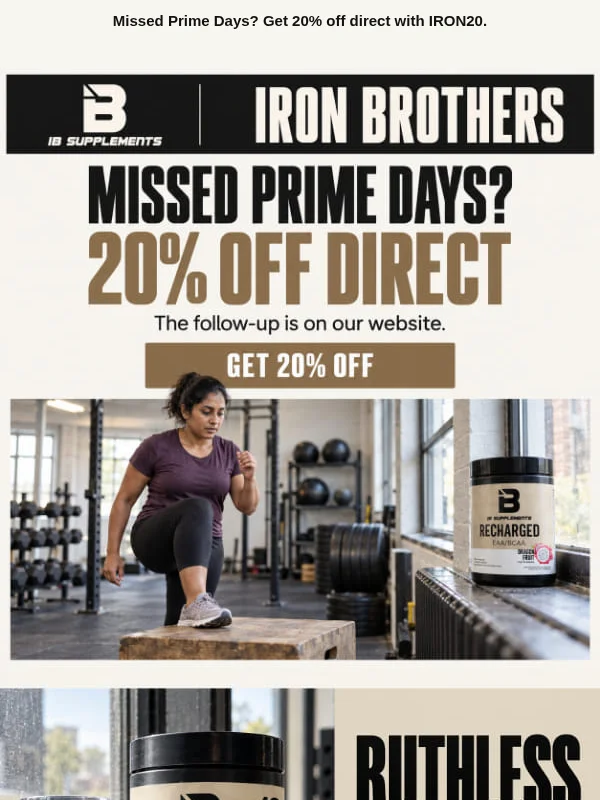
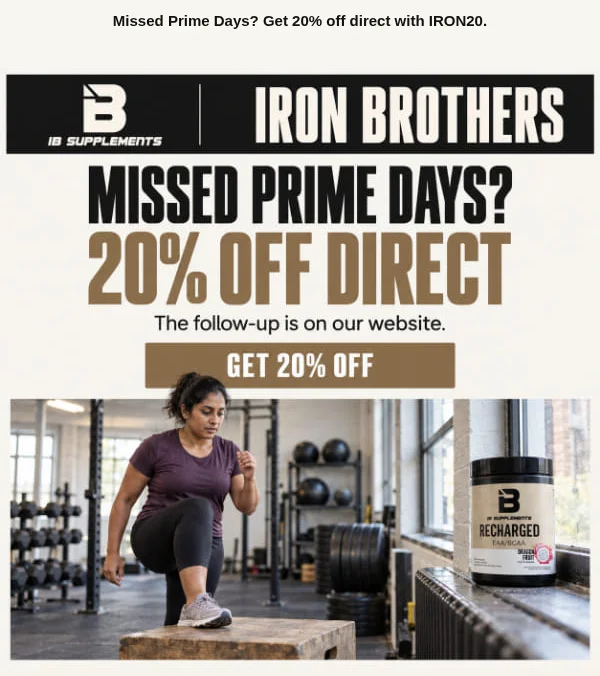
Crop the Services email visual above the next email section

diff --git a/content/pages/services.ts b/content/pages/services.ts
@@ -84,7 +84,7 @@ export const servicesContent = {
       ],
       note: "For brands getting orders but not repeat orders, or where email is an untapped channel.",
       href: "/services/email-marketing",
-      image: { src: "/images/services/iron-brothers-email.webp", alt: "An Iron Brothers email we designed: Missed Prime Days? 20% off direct", ratio: "3 / 4" },
+      image: { src: "/images/services/iron-brothers-email.webp", alt: "An Iron Brothers email we designed: Missed Prime Days? 20% off direct", ratio: "600 / 676" },
     },
     {
       number: "04",
